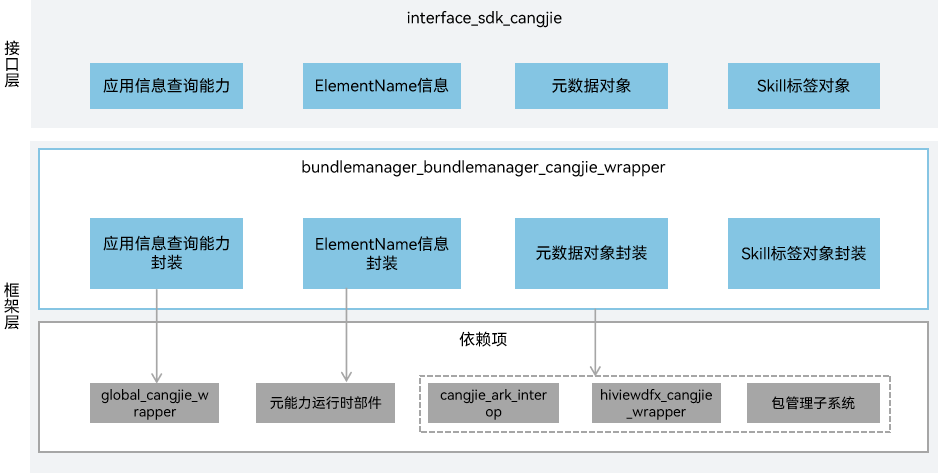
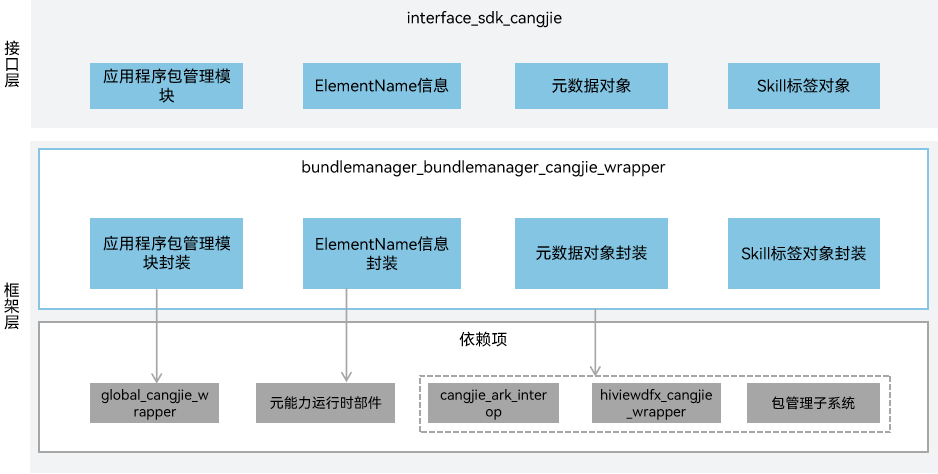
fix_readme

Changed region(s): [[0.0928, 0.1477, 0.2473, 0.2068], [0.1237, 0.5021, 0.2473, 0.5907]]

diff --git a/README_zh.md b/README_zh.md
@@ -14,14 +14,14 @@
 
 接口层：
 
-- 应用信息查询能力：面向开发者提供的用于应用信息查询的API能力。提供UIAbility组件信息、ExtensionAbility组件信息的查询能力，返回json格式字符串。提供查询给定的链接是否可以打开的能力。
+- 应用程序包管理模块：面向开发者提供的用于应用信息查询的API能力。提供UIAbility组件信息、ExtensionAbility组件信息的查询能力，返回json格式字符串。提供查询给定的链接是否可以打开的能力。
 - ElementName信息: 面向开发者提供的ElementName类的定义。包含设备ID，应用Bundle名称等信息。
 - 元数据对象: 面向开发者提供的元数据对象的定义。包含元数据名称、元数据值和元数据资源。
 - Skill标签对象：面向开发者提供的Skill标签对象的定义。包含Skill接收的actions、entities、uris、domainVerify集合。
 
 框架层：
 
-- 应用信息查询能力封装：仓颉应用信息查询能力封装。通过BundleManager类实现仓颉的应用信息查询能力。
+- 应用程序包管理模块封装：仓颉应用信息查询能力封装。通过BundleManager类实现仓颉的应用信息查询能力。
 - ElementName信息封装：提供仓颉ElementName类的定义。
 - 元数据对象封装：提供仓颉Metadata类的定义。
 - Skill对象封装：提供仓颉Skill类的定义。
@@ -57,12 +57,6 @@ foundation/bundlemanager/bundlemanager_cangjie_wrapper
   - 提供自身相应配置文件的json格式字符串的获取能力。
   - 提供给定的链接是否可以打开的查询能力。
   - 提供ElementName信息、元数据对象和Skill标签对象的定义。
-
-
-与ArkTS提供的API能力相比，暂不支持以下功能：
-
-  - 暂不支持获取其他应用包的信息。
-  - 暂不支持根据给定的uid获取对应应用的包名字能力
 
 
 包管理相关API请参见[仓颉包管理API文档](https://gitcode.com/openharmony-sig/arkcompiler_cangjie_ark_interop/blob/master/doc/API_Reference/source_zh_cn/apis/AbilityKit/cj-apis-bundle_manager.md)。
